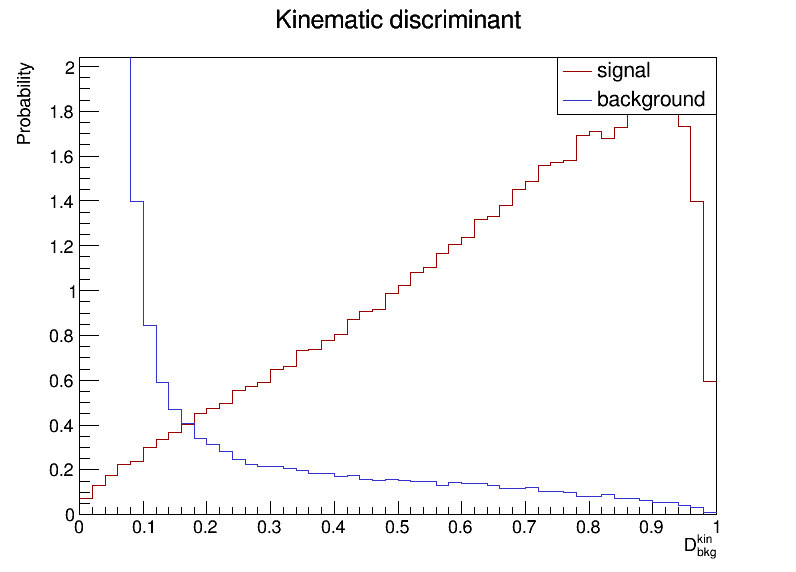
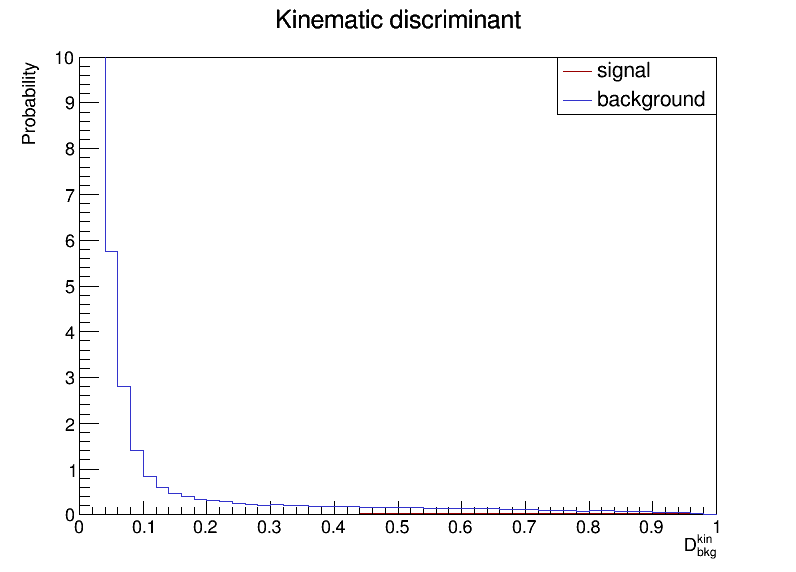
Zad3: pokusaj 6

diff --git a/Vjezbe_7/Analyzer.cpp b/Vjezbe_7/Analyzer.cpp
@@ -341,13 +341,13 @@ void Analyzer::PlotPublicHistograms()
 
     Double_t scale_factor;
 
-    scale_factor = 1.0/( h_Dkin_sig->Integral("width") );
+    scale_factor = 1.0/( h_Dkin_sig->Integral() );
     h_Dkin_sig->Scale(scale_factor);
     h_Dkin_sig->SetTitle("Kinematic discriminant");
     h_Dkin_sig->GetXaxis()->SetTitle("D^{kin}_{bkg}");
     h_Dkin_sig->GetYaxis()->SetTitle("Probability");
     h_Dkin_sig->GetXaxis()->SetRangeUser(0.,1.);
-    //h_Dkin_sig->GetYaxis()->SetRangeUser(0.,150.);
+    h_Dkin_sig->GetYaxis()->SetRangeUser(0.,10.);
     h_Dkin_sig->SetLineColor(kRed+2);
     h_Dkin_sig->Draw("hist");
 
